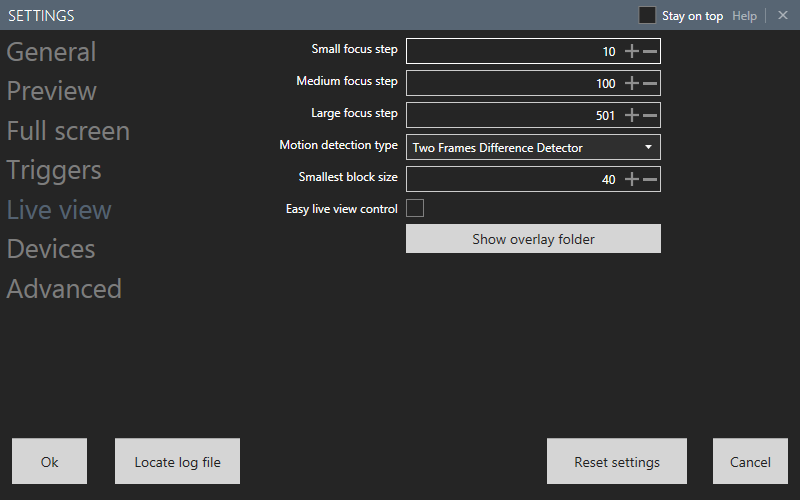
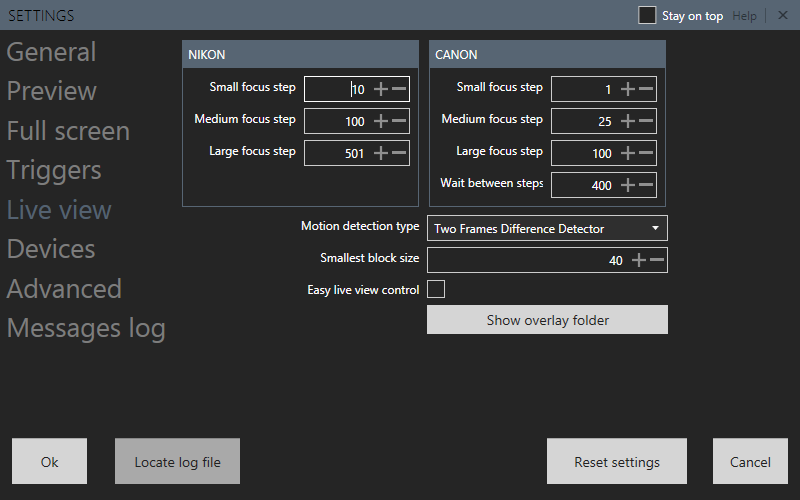
Minor fix for canon focus stacking

diff --git a/CameraControl/ViewModel/LiveViewViewModel.cs b/CameraControl/ViewModel/LiveViewViewModel.cs
@@ -2267,13 +2267,13 @@ namespace CameraControl.ViewModel
                         switch (FocusStepSize)
                         {
                             case 0:
-                                SetFocus(dir*(SimpleManualFocus ? 1 : ServiceProvider.Settings.SmalFocusStep));
+                                SetFocus(dir * (SimpleManualFocus ? ServiceProvider.Settings.SmallFocusStepCanon : ServiceProvider.Settings.SmalFocusStep));
                                 break;
                             case 1:
-                                SetFocus(dir*(SimpleManualFocus ? 5 : ServiceProvider.Settings.MediumFocusStep));
+                                SetFocus(dir * (SimpleManualFocus ? ServiceProvider.Settings.MediumFocusStepCanon : ServiceProvider.Settings.MediumFocusStep));
                                 break;
                             case 2:
-                                SetFocus(dir*(SimpleManualFocus ? 25 : ServiceProvider.Settings.LargeFocusStep));
+                                SetFocus(dir * (SimpleManualFocus ? ServiceProvider.Settings.LargeFocusStepCanon : ServiceProvider.Settings.LargeFocusStep));
                                 break;
                         }
                     }

diff --git a/CameraControl/Properties/AssemblyInfo.cs b/CameraControl/Properties/AssemblyInfo.cs
@@ -86,5 +86,5 @@ using System.Windows;
 // by using the '*' as shown below:
 // [assembly: AssemblyVersion("1.0.*")]
 
-[assembly: AssemblyVersion("1.2.36.0")]
-[assembly: AssemblyFileVersion("1.2.36.0")]
+[assembly: AssemblyVersion("1.2.37.0")]
+[assembly: AssemblyFileVersion("1.2.37.0")]
